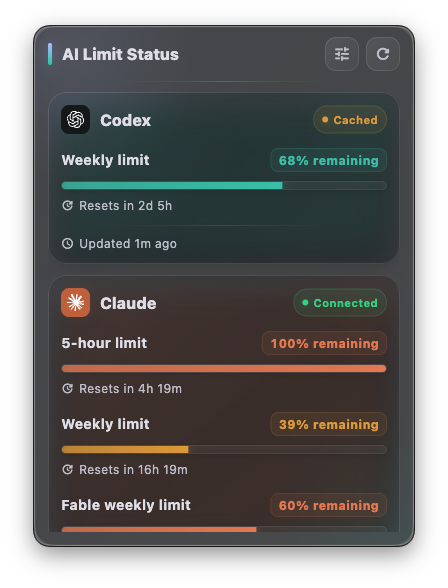
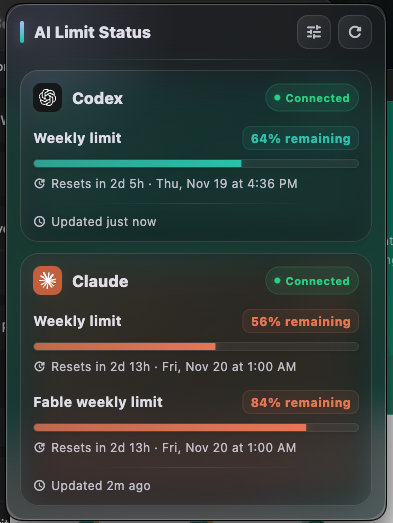
feat: use a current AI Limit Status screenshot

diff --git a/index.html b/index.html
@@ -352,9 +352,9 @@
                 <source srcset="assets/images/ai-limit-status.webp" type="image/webp">
                 <img
                   src="assets/images/ai-limit-status.png"
-                  alt="Actual AI Limit Status macOS interface showing Codex and Claude usage limits"
-                  width="448"
-                  height="588"
+                  alt="AI Limit Status on macOS: Codex weekly limit 64% remaining, Claude weekly limit 56% and Fable weekly limit 84% remaining, each with its reset time"
+                  width="393"
+                  height="523"
                   loading="lazy"
                 >
               </picture>
